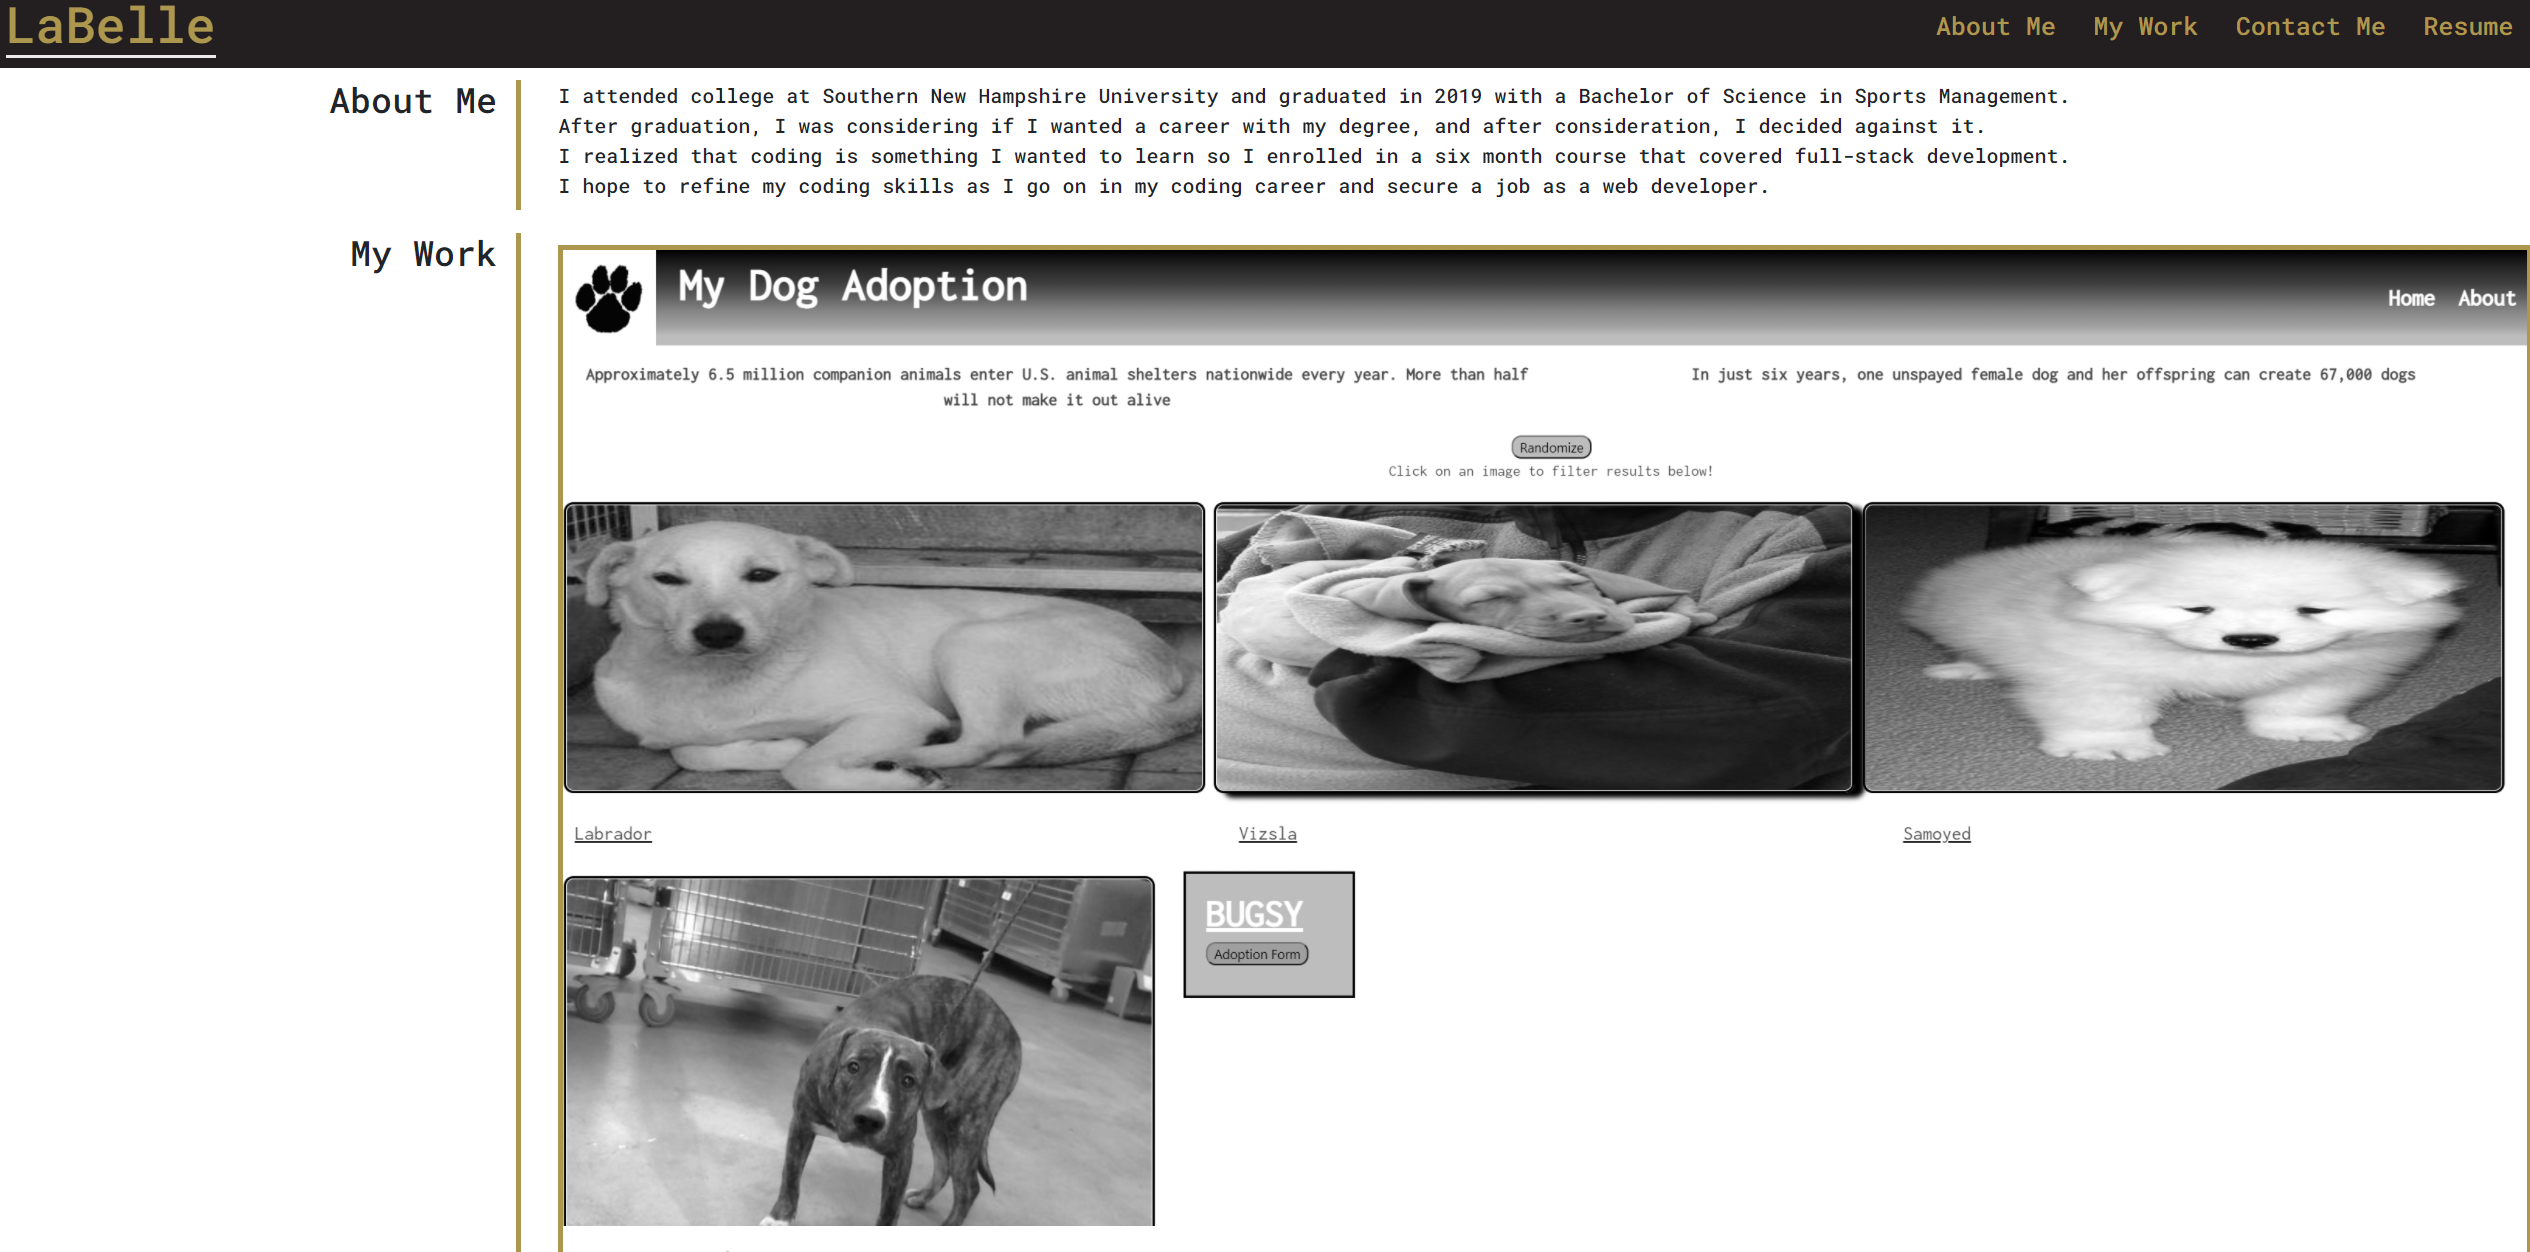
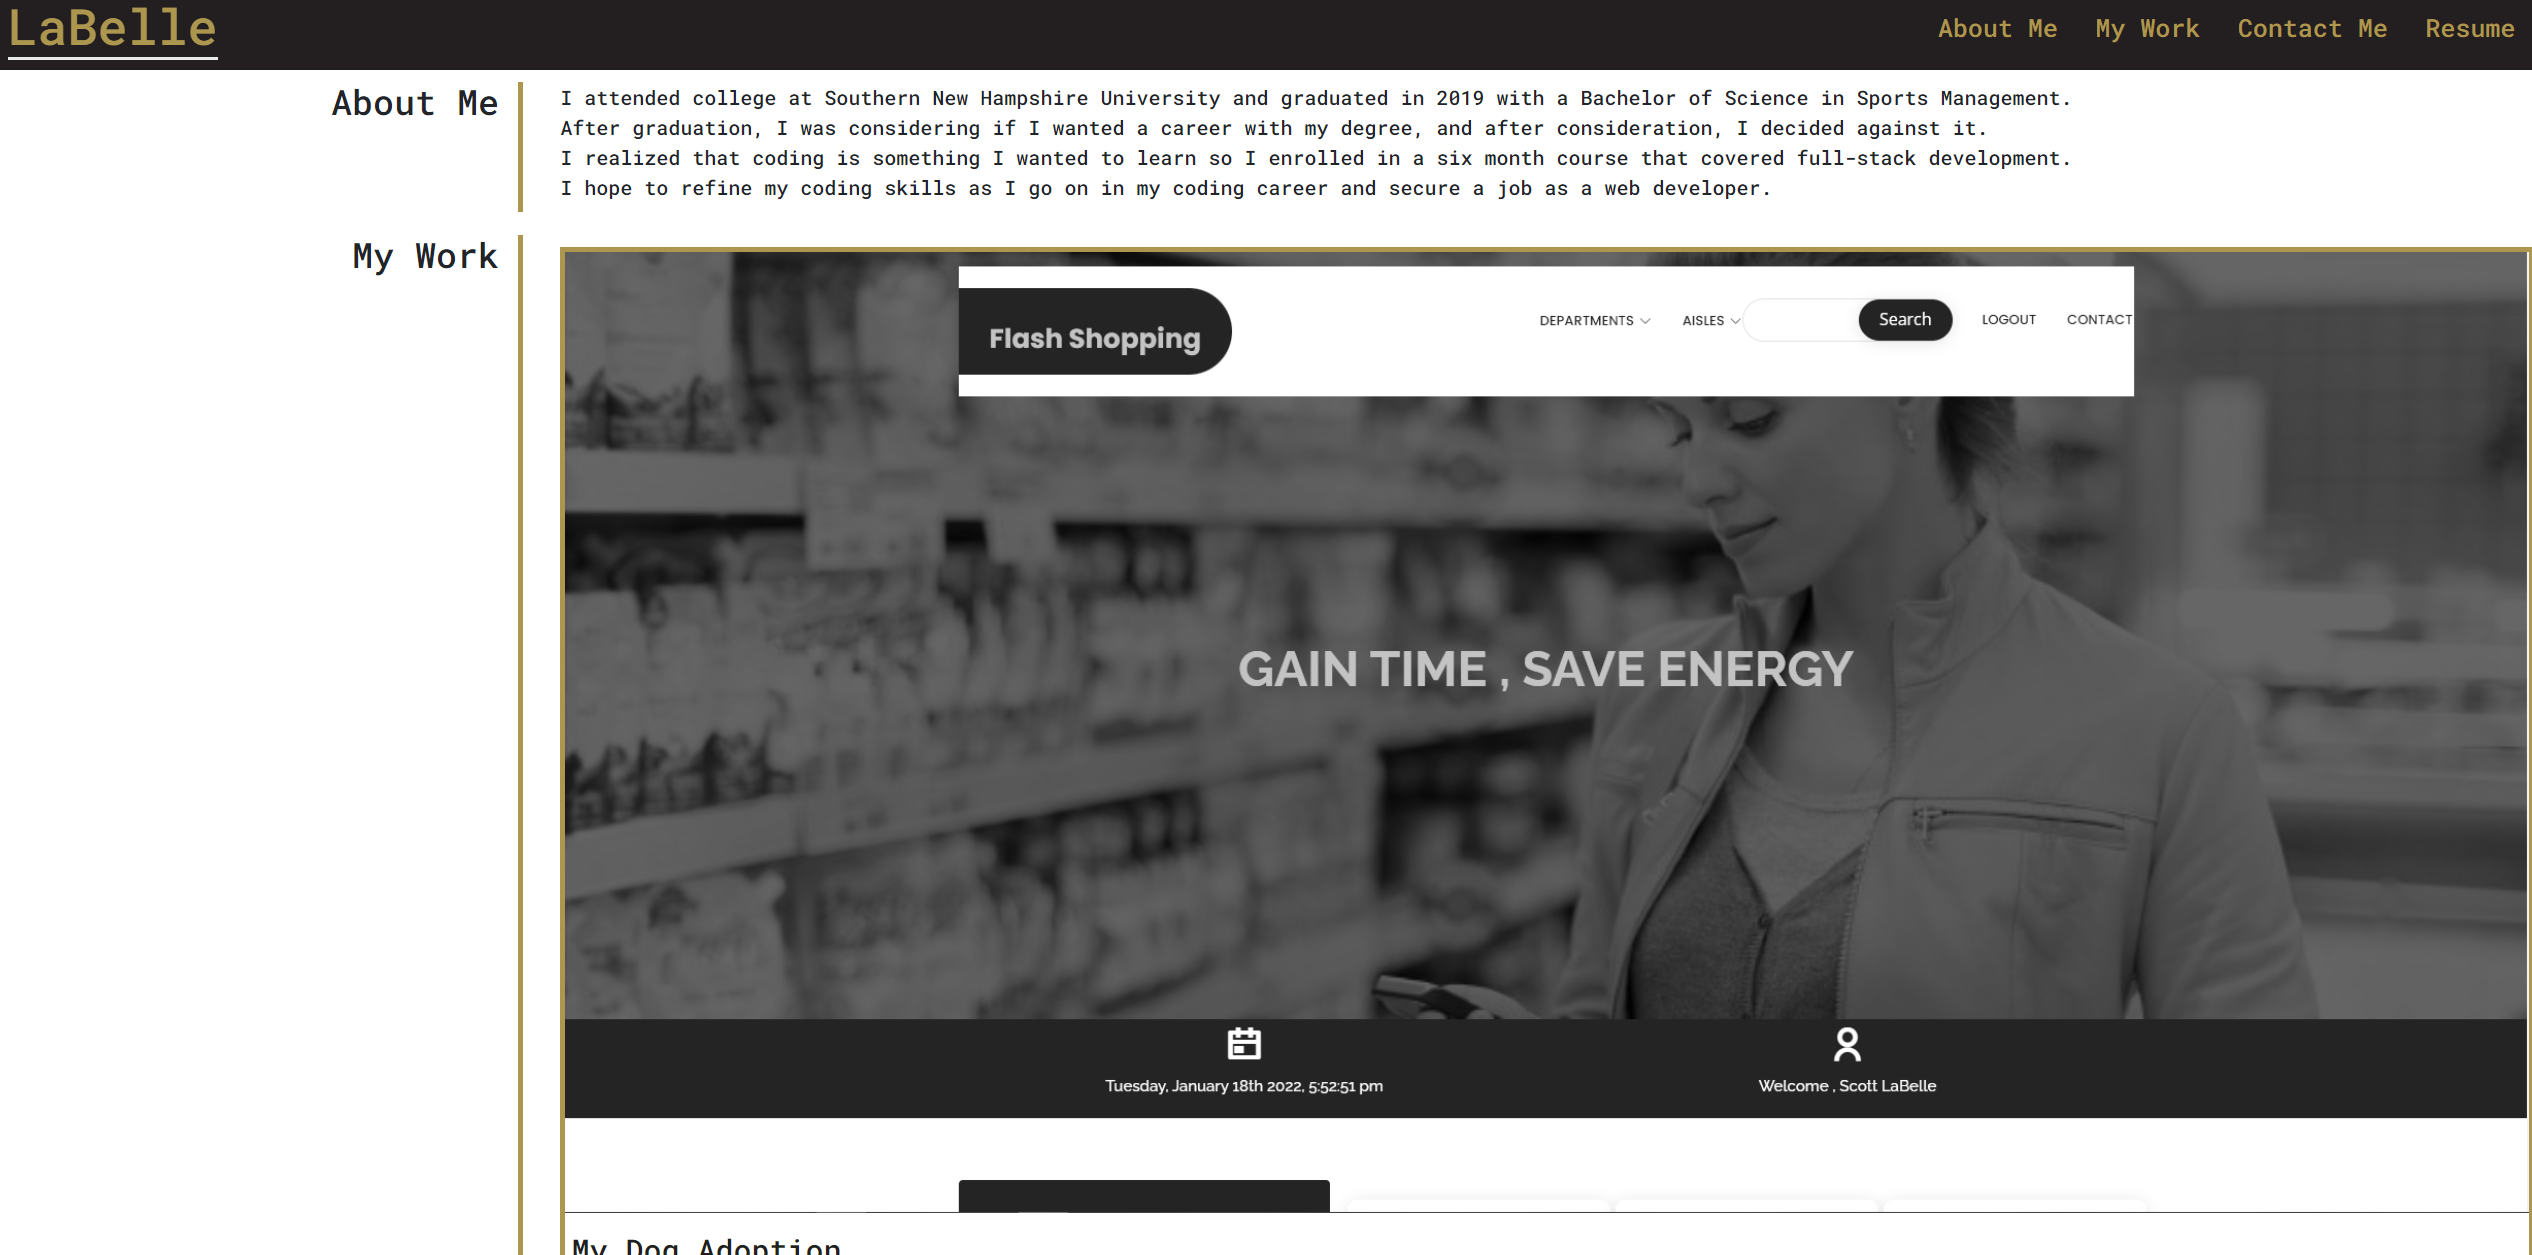
replaced work day with flash shopping. updated readme. added images

diff --git a/index.html b/index.html
@@ -45,29 +45,29 @@
                 <h3 id="work"> My Work</h3>
                 <div class="project-container">
                     <div class ="headline-div">
-                        <a class="headline-img" href= "https://cluck135.github.io/Dog-Adoption-Site//" target ="_blank">
-                            <img class="headline-img" src="./Assets/DogAdoptionImg.png" alt="Picture of dog adoption">
+                        <a class="headline-img" href= "https://vast-ocean-43647.herokuapp.com/" target ="_blank">
+                            <img class="headline-img" src="./Assets/FlashShopping.png" alt="Picture of Flash Shopping Website">
                             <div class="description">
                                 <h4 class="project-description">My Dog Adoption</h4>
-                                <p class="project-description"> HTML, CSS, JavaScript</p>
+                                <p class="project-description"> Handlebars, CSS, JavaScript, Node, Express, Sequelize</p>
         
                             </div>
                         </a>
                     </div>
                     <div class ="other-projects">
-                            <a class="project-img" href= "https://scottl5.github.io/Homework-06/" target ="_blank">
-                                <img class="other-img" src="./Assets/weatherDashboardThumb.png" alt="Picture of weather dashboard">
+                            <a class="project-img" href= "https://cluck135.github.io/Dog-Adoption-Site//" target ="_blank">
+                                <img class="other-img" src="./Assets/DogAdoptionImg.png" alt="Picture of My Dog Adoption Website">
                                 <div class="description">
                                     <h4>Weather Dashboard</h4>
-                                    <p> HTML, CSS, JavaScript</p>  
+                                    <p> HTML, CSS, JavaScript </p>  
             
                                 </div>
                             </a>
                             <a class="project-img" href= "https://scottl5.github.io/Homework-05/" target ="_blank">
-                                <img class="other-img" id="second-other" src="./Assets/workDaySCThumb.png" alt="Picture of work day scheduler">
+                                <img class="other-img" id="second-other" src="./Assets/weatherDashboardThumb.png" alt="Picture of Flash Shopping Website">
                                 <div class="description">
                                     <h4>Work Day Scheduler</h4>
-                                    <p> HTML,JavaScript</p>
+                                    <p> HTML, CSS, JavaScript</p>
             
                                 </div>
                             </a>

diff --git a/README.md b/README.md
@@ -14,5 +14,5 @@ Email: scott.labelle@snhu.edu
 ## Screenshots
 
 [Link to Website](https://scottl5.github.io/My-Portfolio/)
-![Porfolio1](https://user-images.githubusercontent.com/86165095/140624800-76391dd4-b5bb-4f9f-95ed-444b38612cd6.png)
-![Porfolio2](https://user-images.githubusercontent.com/86165095/140624806-a4350bad-92f6-4263-81d7-97d78dd1a5d9.png)
+![Porfolio1](https://user-images.githubusercontent.com/86165095/150049728-00a93d8f-0aa2-4b9b-884d-b395cd961a28.png)
+![Porfolio2](https://user-images.githubusercontent.com/86165095/150049816-16ebfba1-08f6-4f47-be09-1e1f357f0413.png)
